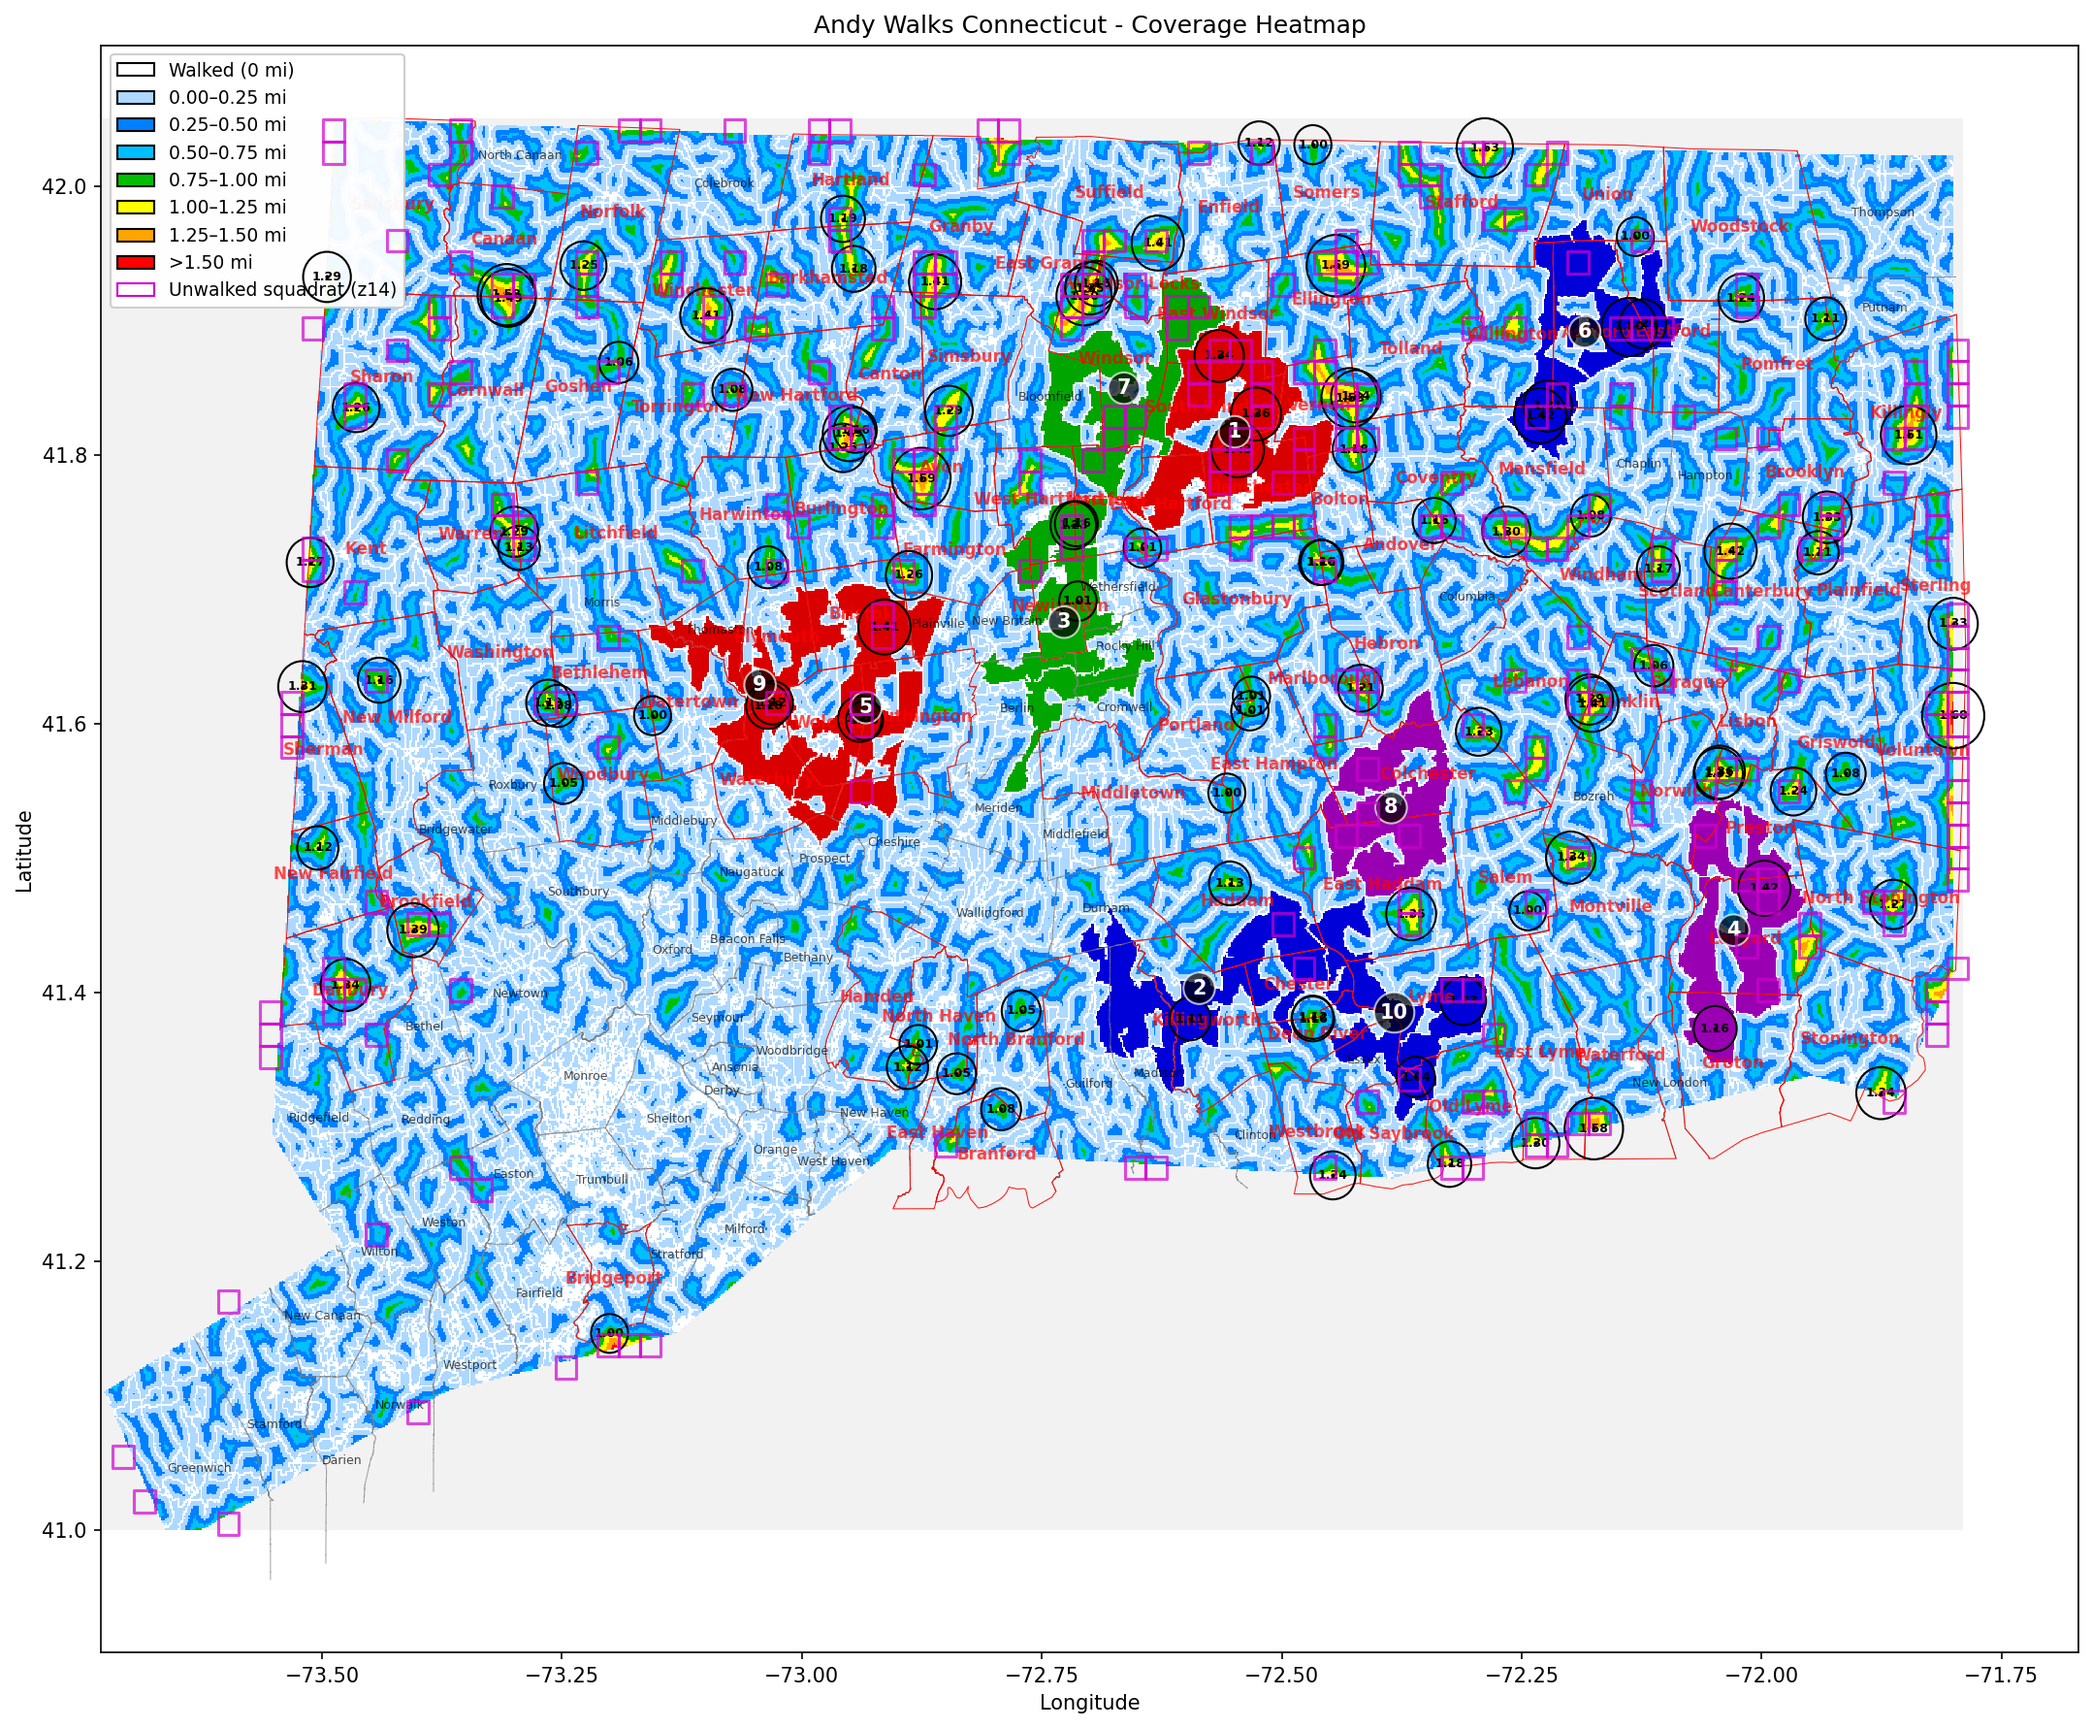
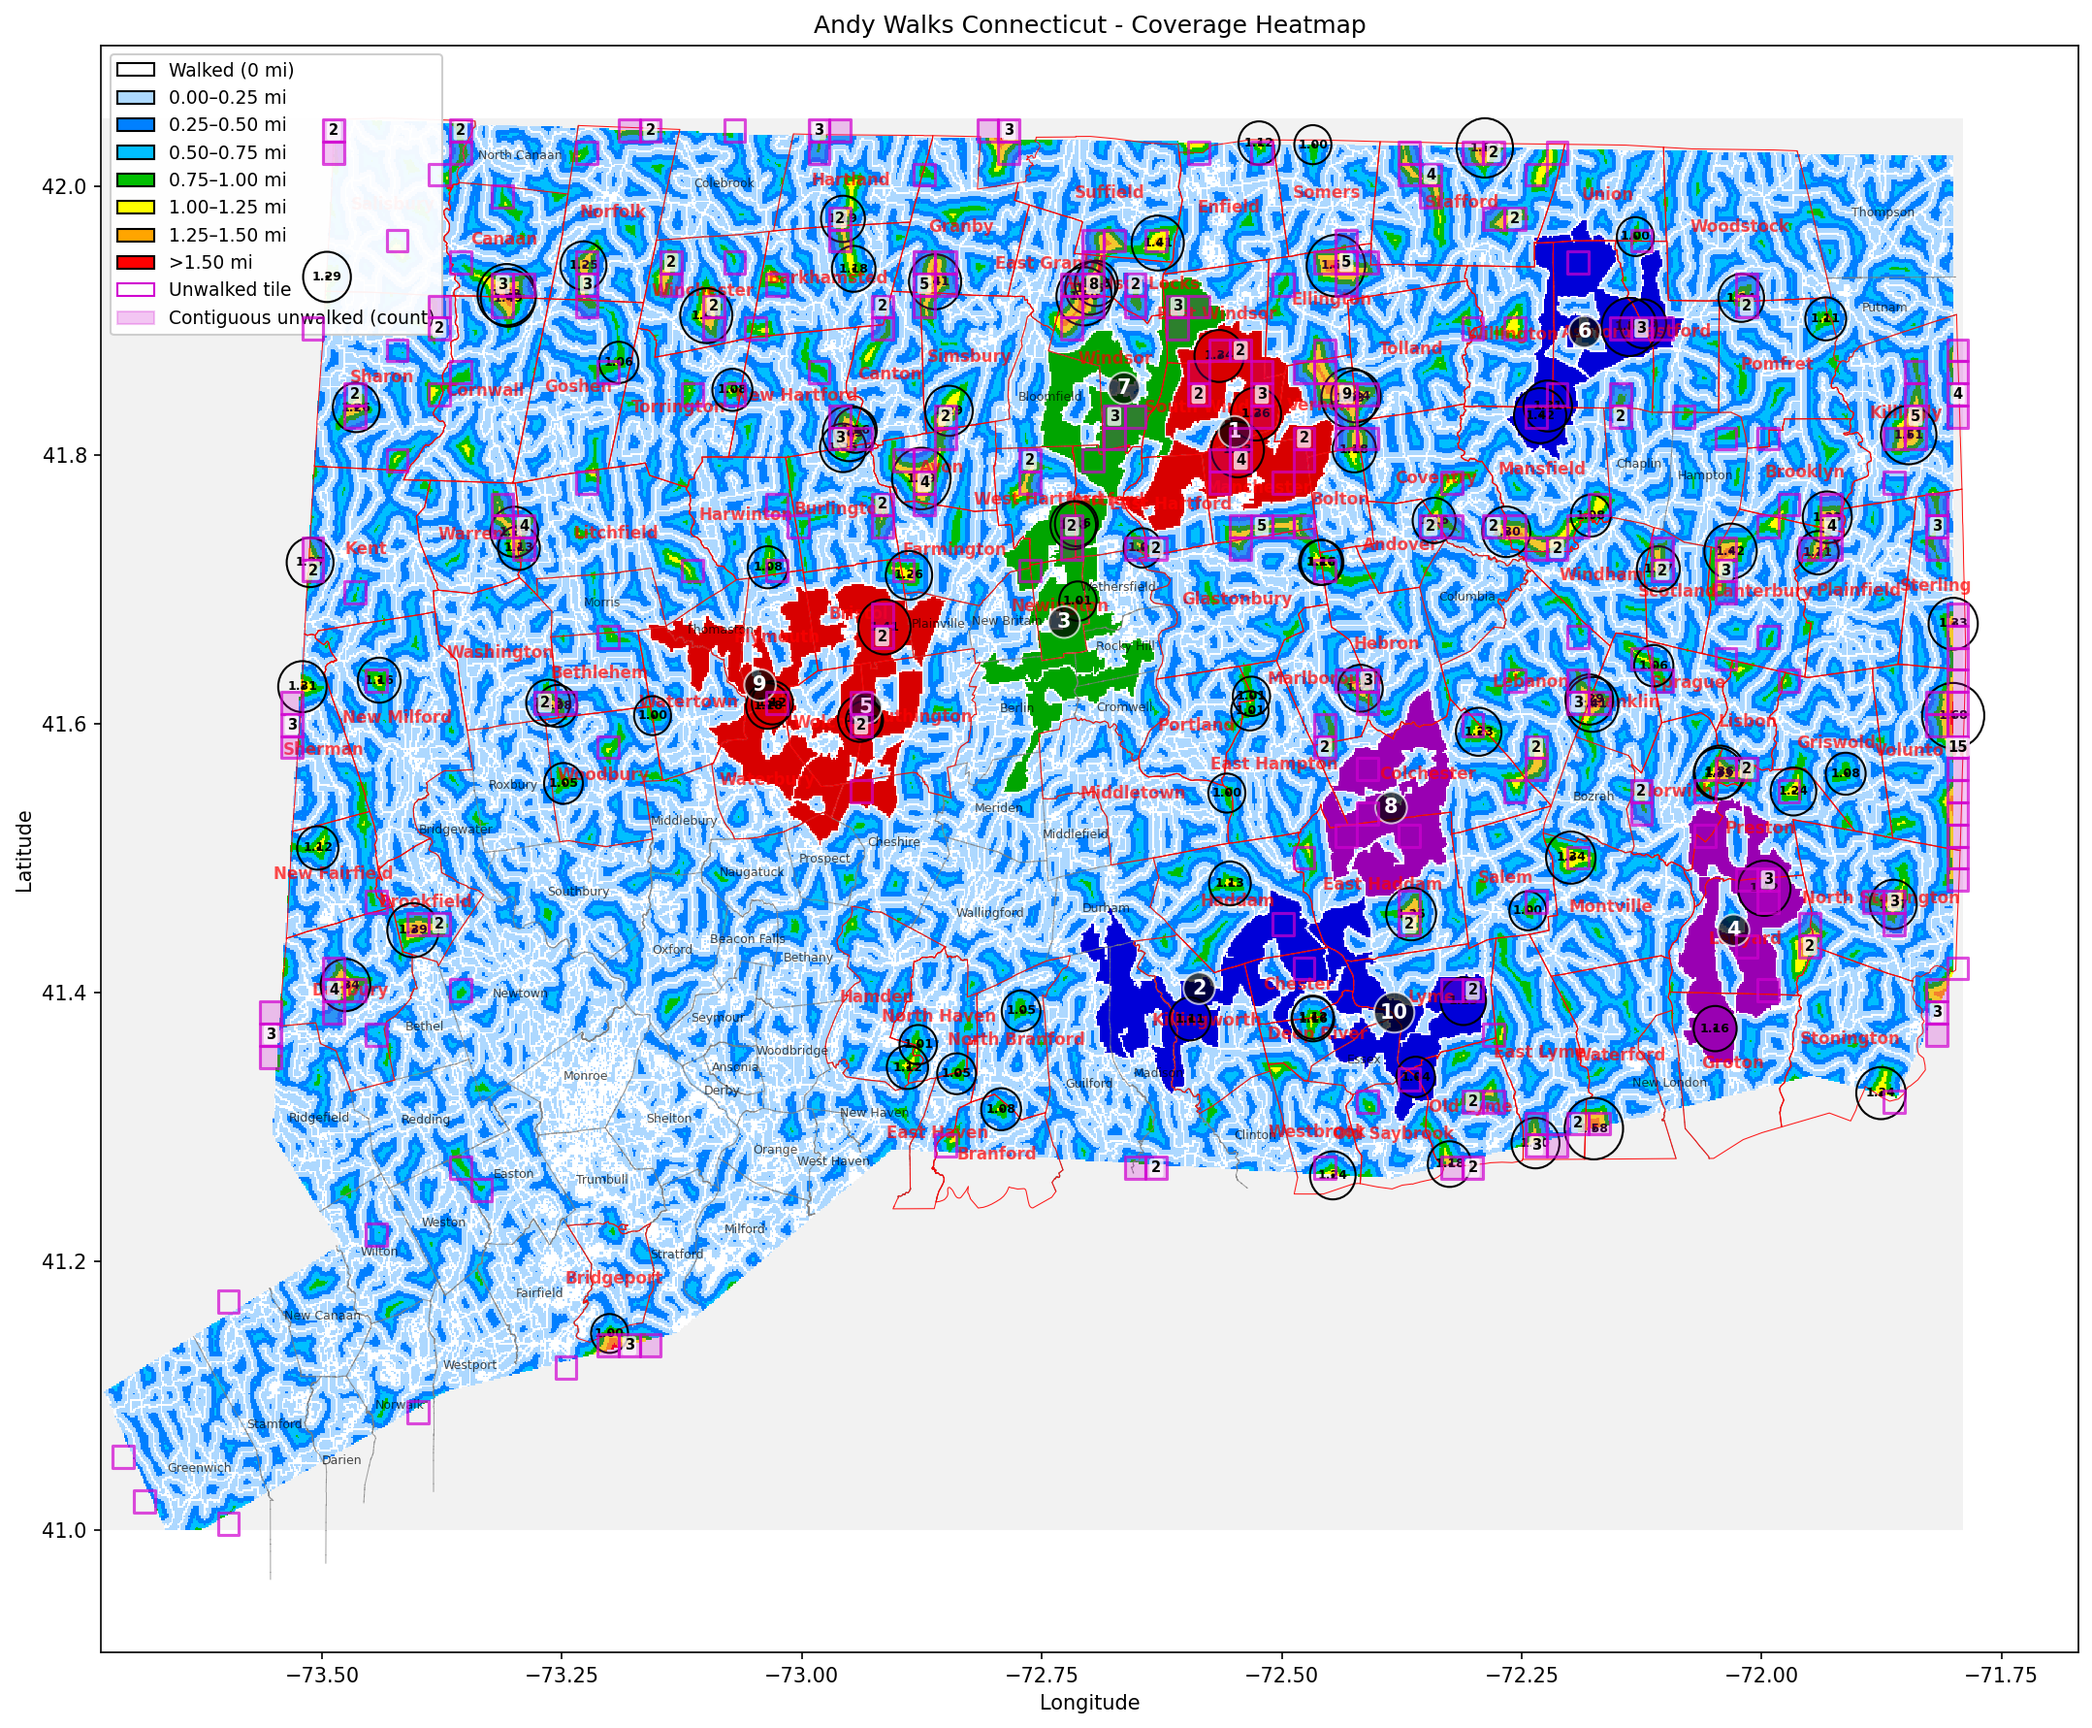
Color and label contiguous unwalked squadrat regions on the heatmap
Contiguous runs of unwalked z14 tiles are the real gaps worth targeting - a
lone unwalked tile is usually a sliver at the state border, while a block of
several is a genuinely unvisited pocket. The map drew every unwalked tile with
the same magenta outline, so the blocks did not stand out from the singletons.

squadrats.py gains three pieces:

- cluster_tiles() groups unwalked tiles into edge-connected regions (tiles
  touching only at a corner are not contiguous), returns them largest-first,
  and drops regions below min_size (default 2).
- draw_squadrat_clusters() fills each region with translucent magenta
  (alpha 0.22, so the distance bands still read through) and stamps the tile
  count on it. The count sits on the region tile nearest the centroid rather
  than at the centroid itself, because for L- and U-shaped regions the true
  centroid lands on tiles outside the region.
- cluster_legend_patch() supplies the matching legend handle.

heatmap.py clusters the existing squadrat_tiles set and draws the fills under
the tile outlines (zorder 19 vs 20) so both stay visible.

Legend labels shortened to "Unwalked tile" and "Contiguous unwalked (count)" -
the longer wording made the legend box wide enough to overhang the northwest
corner of the map.

Current data: 322 unwalked tiles form 76 contiguous regions of 2+ squares,
the largest being 15 tiles along the Rhode Island line near Voluntown.

Files:
 M src/plotmap/heatmap.png
 M src/plotmap/heatmap.py
[…]

diff --git a/src/plotmap/squadrats.py b/src/plotmap/squadrats.py
@@ -28,6 +28,11 @@ SQUADRAT_COLOR = "#d000d0"  # magenta, stands out over the heatmap palette
 SQUADRAT_LINEWIDTH = 1.5
 SQUADRAT_ALPHA = 0.7
 
+# Fill styling for contiguous regions of 2+ unwalked tiles.
+CLUSTER_FILL_COLOR = "#d000d0"  # same hue as the outlines, translucent fill
+CLUSTER_FILL_ALPHA = 0.22       # low enough that the heatmap reads through
+CLUSTER_LABEL_FONTSIZE = 7
+
 
 def earned_tiles(lats, lons, z=Z):
     """Return the set of (x, y) zoom-z tiles containing any of the given points."""
@@ -120,6 +125,95 @@ def draw_squadrat_tiles(ax, tiles, z=Z, bbox=None,
     return len(patches)
 
 
-def legend_patch(label="Unwalked squadrat (z14)"):
+def legend_patch(label="Unwalked tile"):
     """A legend handle matching the squadrat outline style."""
     return Patch(facecolor='none', edgecolor=SQUADRAT_COLOR, label=label)
+
+
+def cluster_tiles(tiles, min_size=2):
+    """Group tiles into contiguous (edge-connected) regions.
+
+    Tiles touching only at a corner are not contiguous. Returns a list of tile
+    lists, largest region first, keeping only regions of at least min_size
+    tiles.
+    """
+    remaining = set(tiles)
+    regions = []
+
+    while remaining:
+        region = [remaining.pop()]
+        stack = list(region)
+        while stack:
+            x, y = stack.pop()
+            for neighbor in ((x + 1, y), (x - 1, y), (x, y + 1), (x, y - 1)):
+                if neighbor in remaining:
+                    remaining.remove(neighbor)
+                    region.append(neighbor)
+                    stack.append(neighbor)
+
+        if len(region) >= min_size:
+            regions.append(region)
+
+    regions.sort(key=len, reverse=True)
+    return regions
+
+
+def draw_squadrat_clusters(ax, regions, z=Z, bbox=None,
+                           facecolor=CLUSTER_FILL_COLOR, alpha=CLUSTER_FILL_ALPHA,
+                           fontsize=CLUSTER_LABEL_FONTSIZE, zorder=19):
+    """Fill each contiguous region and label it with its tile count.
+
+    Args:
+        ax: matplotlib axes.
+        regions: iterable of tile lists (e.g. from cluster_tiles()).
+        bbox: optional (lon_min, lon_max, lat_min, lat_max) to cull regions
+              that fall entirely outside the visible area.
+
+    Returns the number of regions drawn.
+    """
+    patches = []
+    drawn = 0
+
+    for region in regions:
+        boxes = [tile_bounds(x, y, z) for (x, y) in region]
+
+        if bbox is not None:
+            lon_min, lon_max, lat_min, lat_max = bbox
+            if all(lon_e < lon_min or lon_w > lon_max or lat_n < lat_min or lat_s > lat_max
+                   for lon_w, lon_e, lat_s, lat_n in boxes):
+                continue
+
+        for lon_w, lon_e, lat_s, lat_n in boxes:
+            patches.append(Rectangle((lon_w, lat_s), lon_e - lon_w, lat_n - lat_s))
+
+        # Place the count on the tile nearest the region centroid rather than at
+        # the centroid itself -- for an L- or U-shaped region the centroid can
+        # land on tiles that are not part of it.
+        centers = [((lon_w + lon_e) / 2.0, (lat_s + lat_n) / 2.0)
+                   for lon_w, lon_e, lat_s, lat_n in boxes]
+        cx = sum(c[0] for c in centers) / len(centers)
+        cy = sum(c[1] for c in centers) / len(centers)
+        label_lon, label_lat = min(
+            centers, key=lambda c: (c[0] - cx) ** 2 + (c[1] - cy) ** 2
+        )
+
+        ax.text(label_lon, label_lat, str(len(region)), fontsize=fontsize,
+                color='black', weight='bold', ha='center', va='center',
+                bbox=dict(boxstyle='round,pad=0.15', facecolor='white',
+                          alpha=0.75, edgecolor='none'),
+                zorder=zorder + 2)
+        drawn += 1
+
+    if patches:
+        ax.add_collection(PatchCollection(
+            patches, facecolor=facecolor, edgecolor='none',
+            alpha=alpha, zorder=zorder,
+        ))
+
+    return drawn
+
+
+def cluster_legend_patch(label="Contiguous unwalked (count)"):
+    """A legend handle matching the cluster fill style."""
+    return Patch(facecolor=CLUSTER_FILL_COLOR, alpha=CLUSTER_FILL_ALPHA,
+                 edgecolor=SQUADRAT_COLOR, label=label)

diff --git a/src/plotmap/heatmap.py b/src/plotmap/heatmap.py
@@ -618,8 +618,13 @@ def render_heatmap(distance_grid, extent, walked_lines=None, unwalked_lines=None
                     bbox=dict(boxstyle='circle,pad=0.3', facecolor='black', alpha=0.7, edgecolor='white', linewidth=1),
                     zorder=15)
 
-    # Draw unwalked squadrats tile outlines (heatmap shows through)
+    # Fill contiguous regions of 2+ unwalked squadrats and label the tile count,
+    # then draw every tile outline on top (heatmap shows through both)
     if squadrat_tiles:
+        regions = squadrats.cluster_tiles(squadrat_tiles, min_size=2)
+        filled = squadrats.draw_squadrat_clusters(ax, regions, bbox=extent)
+        print(f"Filled {filled} contiguous unwalked squadrat regions of 2+ tiles "
+              f"(largest: {len(regions[0]) if regions else 0} tiles)")
         drawn = squadrats.draw_squadrat_tiles(ax, squadrat_tiles, bbox=extent)
         print(f"Drew {drawn} unwalked squadrat (z{squadrats.Z}) tile outlines")
 
@@ -639,6 +644,7 @@ def render_heatmap(distance_grid, extent, walked_lines=None, unwalked_lines=None
     ]
     if squadrat_tiles:
         legend_elements.append(squadrats.legend_patch())
+        legend_elements.append(squadrats.cluster_legend_patch())
     ax.legend(handles=legend_elements, loc='upper left', fontsize=9, framealpha=0.95)
 
     ax.set_xlabel('Longitude')
